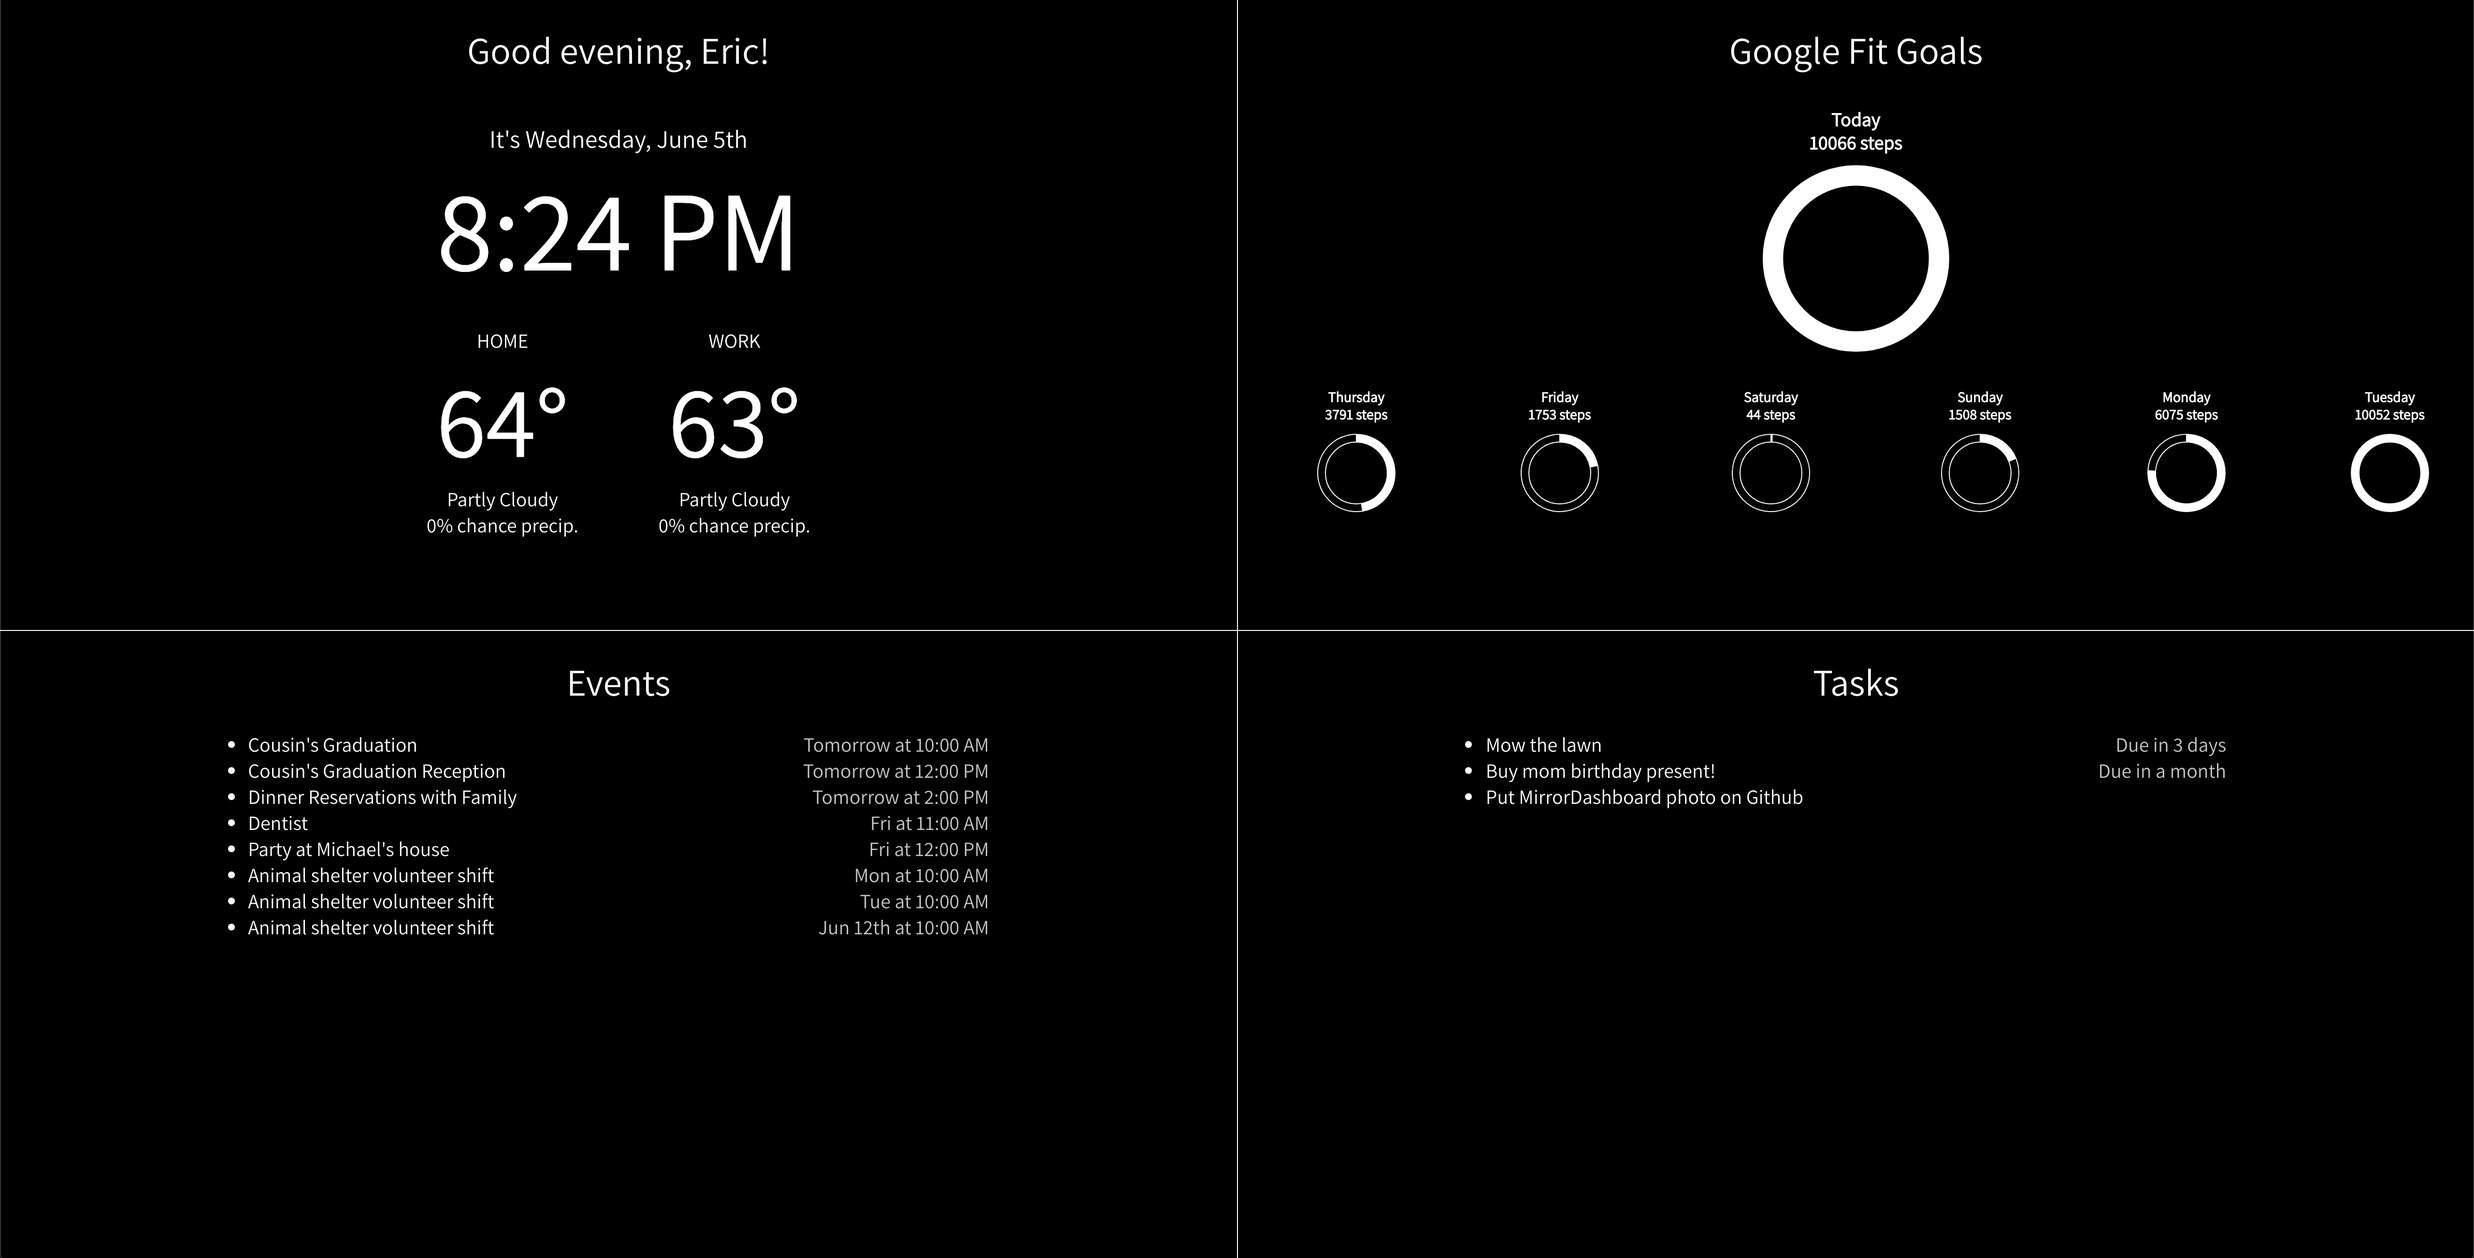
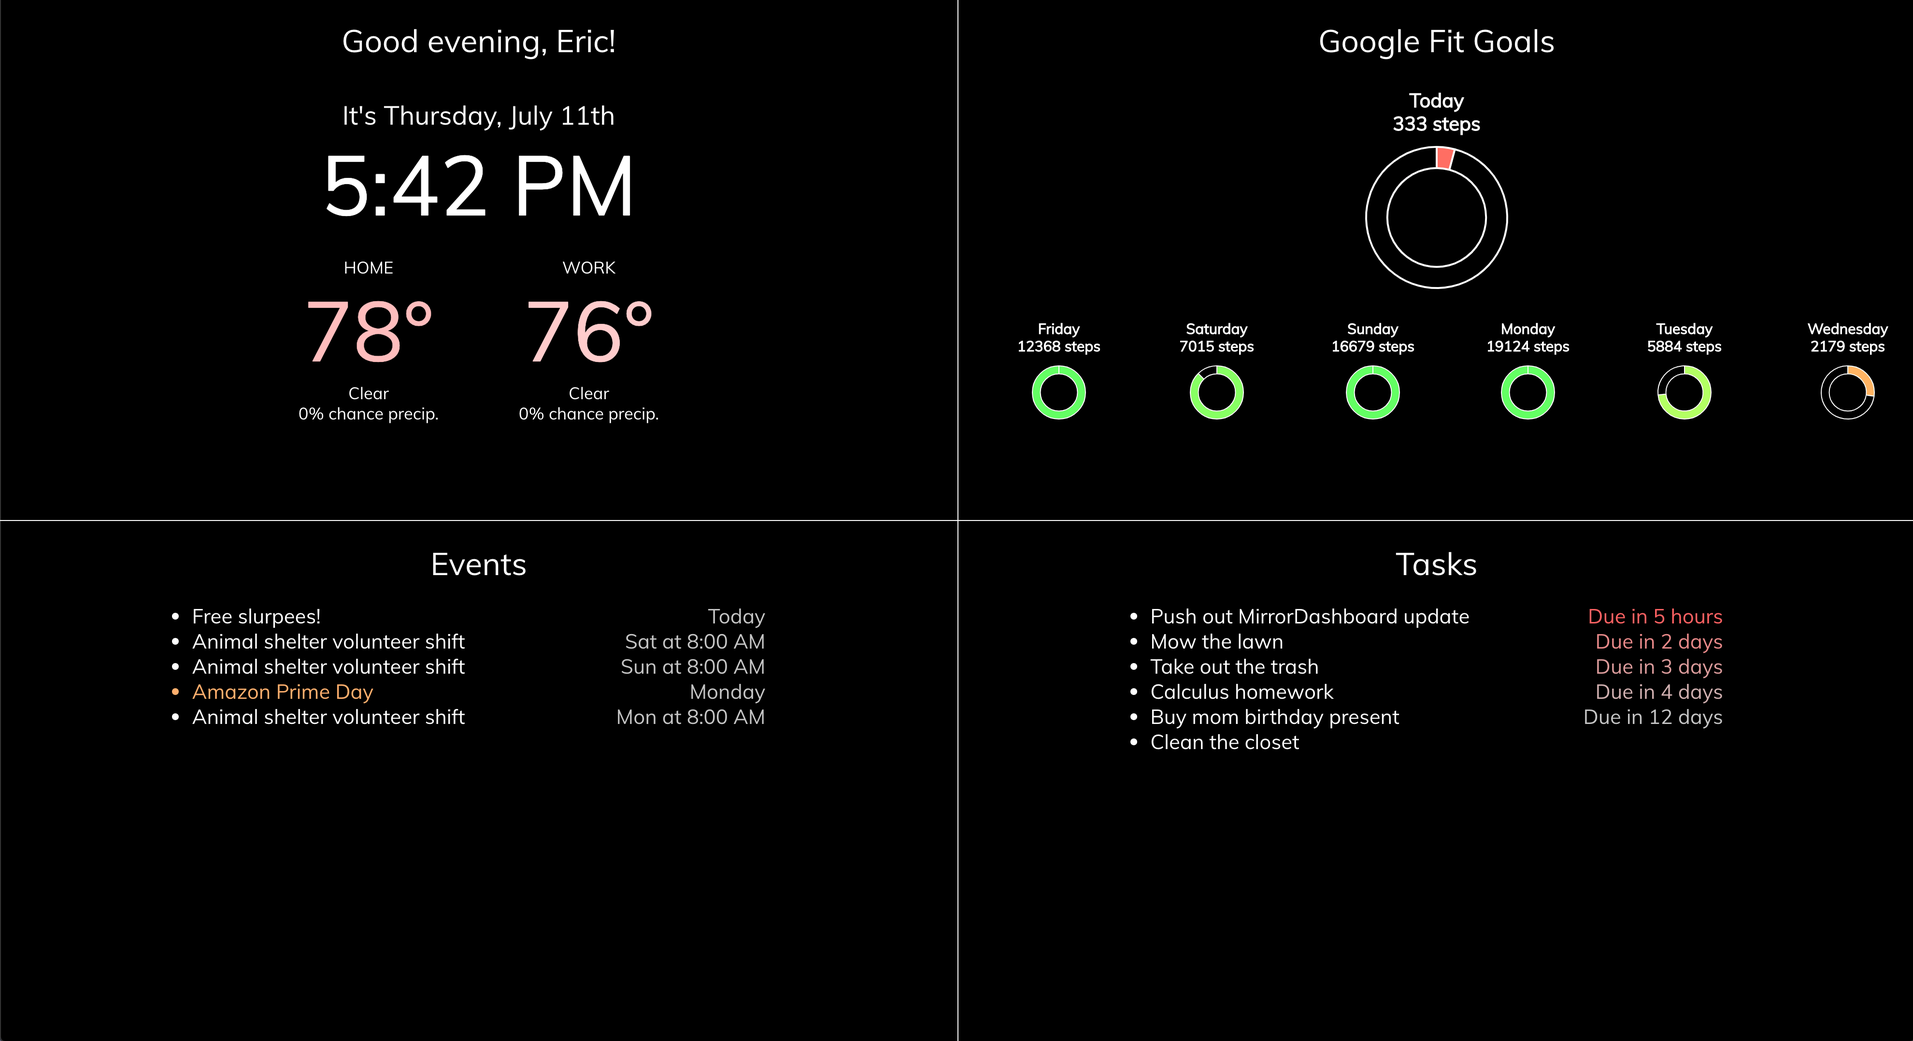
Add colors

diff --git a/src/Dashboard.js b/src/Dashboard.js
@@ -5,7 +5,11 @@ import React from "react";
 import { Doughnut } from 'react-chartjs-2';
 import DarkSkyApi from 'dark-sky-api';
 import moment from "moment";
-import {apiKey, clientId, calendars, calendarLookAhead, maxEntries, taskLists, secondaryLocation, homeLatitude, homeLongitude, workLatitude, workLongitude, darkSkyKey, googleFitActivity, googleFitActivityUnits, googleAuthScopes, fitGoal, refreshRates} from "./config";
+import interpolate from "color-interpolate";
+
+import {apiKey, clientId, calendars, calendarLookAhead, maxEntries, taskLists, secondaryLocation, homeLatitude, homeLongitude, workLatitude, workLongitude, darkSkyKey, googleFitActivity, googleFitActivityUnits, googleAuthScopes, fitGoal, refreshRates, tempLowerBound, tempUpperBound, anxietyLevel} from "./config";
+import {googleCalendarColors} from "./static";
+
 
 export default class Dashboard extends React.Component {
     constructor(props){
@@ -86,7 +90,6 @@ export default class Dashboard extends React.Component {
             latitude: homeLatitude,
             longitude: homeLongitude
         }).then((result) => {
-            result.precipProbability *= 100;
             this.setState({homeWeather: result});
         });
 
@@ -94,7 +97,6 @@ export default class Dashboard extends React.Component {
             latitude: workLatitude,
             longitude: workLongitude
         }).then((result) => {
-            result.precipProbability *= 100;
             this.setState({workWeather: result});
         });
     }
@@ -116,6 +118,7 @@ export default class Dashboard extends React.Component {
             const events = results.map((result) => {
                 return result.result.items.map((item) => {
                     return {
+                        color: item.colorId === undefined ? "default" : googleCalendarColors.event[item.colorId.toString()].background,
                         name: item.summary,
                         allDay: item.start.dateTime == null,
                         start: (item.start.dateTime == null) ? moment(item.start.date) : moment(item.start.dateTime),
@@ -168,12 +171,12 @@ export default class Dashboard extends React.Component {
             }).flat().sort((a, b) => {
                 if(a.duedate === null){
                     if(b.duedate === null){
-                        return a;
+                        return 0;
                     }
-                    return b;
+                    return 1;
                 }
                 if(b.duedate === null){
-                    return a;
+                    return -1;
                 }
                 return a.duedate.valueOf() - b.duedate.valueOf();
             });
@@ -198,7 +201,6 @@ export default class Dashboard extends React.Component {
                 "endTimeMillis": moment().hour(23).minute(59).second(59).millisecond(999).valueOf()
             }
         }).then((result) => {
-            console.log(result);
             let data = result.result.bucket.map((day) => {
                 if(day.dataset.length === 0){
                     return 0;
@@ -256,7 +258,6 @@ export default class Dashboard extends React.Component {
                 <h2 style={{textAlign: "center", fontSize: "20px"}}>Your calendar's clear for the next {maxEntries} days.</h2>
             );
         }else{
-            console.log(this.state.events);
             eventsHtml = this.state.events.slice(0, maxEntries - 1).map((event, i) => {
                 let date;
                 if(event.allDay){
@@ -276,7 +277,7 @@ export default class Dashboard extends React.Component {
                 }
 
                 return (
-                    <li className="entry" key={"event-" + event.id}>{event.name} <span className="dimmed right">{date}</span></li>
+                    <li className="entry" key={"event-" + event.id} style={{color: event.color}}>{event.name} <span className="dimmed right">{date}</span></li>
                 );
             });
             if(maxEntries < this.state.events.length){
@@ -297,8 +298,21 @@ export default class Dashboard extends React.Component {
             );
         }else{
             tasksHtml = this.state.tasks.slice(0, maxEntries - 1).map((task, i) => {
+
                 return (
-                    <li className="entry" key={"task-" + task.id} >{task.name} <span className="dimmed right">{task.duedate === null ? "" : ("Due " + task.duedate.fromNow().toString())}</span></li>
+                    <li className="entry" key={"task-" + task.id}>
+                        {task.name}
+                        <span
+                            className="right"
+                            style={{
+                                color: (task.duedate === null) ?
+                                    "cornflowerblue" :
+                                    interpolate(["#ff6e6e", "#cccccc"])(task.duedate.diff(moment(), "days") / anxietyLevel)
+                            }}
+                        >
+                            {task.duedate === null ? "" : ("Due " + task.duedate.fromNow().toString())}
+                        </span>
+                    </li>
                 );
             });
             if(maxEntries < this.state.tasks.length){
@@ -317,23 +331,63 @@ export default class Dashboard extends React.Component {
                                 <div className="sectionWrapper">
                                     <h1 className="sectionHeader" style={{textAlign: "center"}} onClick={this.handleSignOut}>Good {timeOfDay}, {this.state.user.getBasicProfile().getGivenName()}!</h1>
                                     <div style={{padding: "1.7vh", textAlign: "center"}}>
-                                        <h2 style={{fontSize: "2vh", margin: 0}}>It's {this.state.currentTime.format("dddd, MMMM Do")}</h2>
-                                        <h1 style={{fontSize: "9vh", margin: 0}}>{this.state.currentTime.format("h:mm A")}</h1>
+                                        <h2 style={{fontSize: "2.5vh", margin: 0}}>It's {this.state.currentTime.format("dddd, MMMM Do")}</h2>
+                                        <h1 style={{fontSize: "8vh", margin: 0}}>{this.state.currentTime.format("h:mm A")}</h1>
                                     </div>
                                     <table style={{position: "relative", left: 0, right: 0, margin: "auto", border: "none", textAlign: "center"}}>
                                         <tbody>
                                             <tr>
                                                 <td style={{border: "none", paddingRight: "40px"}}>
                                                     <h2 style={{fontSize: "1.6vh", margin: 0}}>HOME</h2>
-                                                    <h1 style={{fontSize: "8vh", margin: 0}}>{this.state.homeWeather === null ? "..." : (Math.round(this.state.homeWeather.temperature) + "°")}</h1>
+                                                    <h1
+                                                        style={{
+                                                            fontSize: "8vh",
+                                                            margin: 0,
+                                                            color: (
+                                                                this.state.homeWeather == null ?
+                                                                    "default" :
+                                                                    interpolate(
+                                                                        ["#6e6eff", "#ffffff", "#ff6e6e"]
+                                                                    )(
+                                                                        (this.state.homeWeather.temperature - tempLowerBound) / (tempUpperBound - tempLowerBound)
+                                                                    )
+                                                            )
+                                                        }}
+                                                    >
+                                                        {this.state.homeWeather === null ? "..." : (Math.round(this.state.homeWeather.temperature) + "°")}
+                                                    </h1>
                                                     <h2 style={{fontSize: "1.6vh", margin: 0}}>{this.state.homeWeather === null ? "Loading weather" : this.state.homeWeather.summary}</h2>
-                                                    <h2 style={{fontSize: "1.6vh", margin: 0}}>{this.state.homeWeather === null ? "Loading precipitation" : (this.state.homeWeather.precipProbability.toString() + "% chance precip.")}</h2>
+                                                    <h2 style={{
+                                                        fontSize: "1.6vh",
+                                                        margin: 0,
+                                                        color: (this.state.homeWeather === null) ? "#ffffff" : interpolate(["#ffffff", "#6e6eff"])(this.state.homeWeather.precipProbability)
+                                                    }}>{this.state.homeWeather === null ? "Loading precipitation" : ((this.state.homeWeather.precipProbability * 100).toString() + "% chance precip.")}</h2>
                                                 </td>
                                                 <td style={{border: "none", paddingLeft: "40px"}}>
                                                     <h2 style={{fontSize: "1.6vh", margin: 0}}>{secondaryLocation.toUpperCase()}</h2>
-                                                    <h1 style={{fontSize: "8vh", margin: 0}}>{this.state.workWeather === null ? "..." : (Math.round(this.state.workWeather.temperature) + "°")}</h1>
+                                                    <h1
+                                                        style={{
+                                                            fontSize: "8vh",
+                                                            margin: 0,
+                                                            color: (
+                                                                this.state.workWeather == null ?
+                                                                    "default" :
+                                                                    interpolate(
+                                                                        ["#6e6eff", "#ffffff", "#ff6e6e"]
+                                                                    )(
+                                                                        (this.state.workWeather.temperature - tempLowerBound) / (tempUpperBound - tempLowerBound)
+                                                                    )
+                                                            )
+                                                        }}
+                                                    >
+                                                        {this.state.workWeather === null ? "..." : (Math.round(this.state.workWeather.temperature) + "°")}
+                                                    </h1>
                                                     <h2 style={{fontSize: "1.6vh", margin: 0}}>{this.state.workWeather === null ? "Loading weather" : this.state.workWeather.summary}</h2>
-                                                    <h2 style={{fontSize: "1.6vh", margin: 0}}>{this.state.workWeather === null ? "Loading precipitation" : (this.state.workWeather.precipProbability.toString() + "% chance precip.")}</h2>
+                                                    <h2 style={{
+                                                        fontSize: "1.6vh",
+                                                        margin: 0,
+                                                        color: (this.state.workWeather === null) ? "#ffffff" : interpolate(["#ffffff", "#6e6eff"])(this.state.workWeather.precipProbability)
+                                                    }}>{this.state.workWeather === null ? "Loading precipitation" : ((this.state.workWeather.precipProbability * 100).toString() + "% chance precip.")}</h2>
                                                 </td>
                                             </tr>
                                         </tbody>
@@ -358,7 +412,7 @@ export default class Dashboard extends React.Component {
                                                                 this.state.fit[this.state.fit.length - 1] > fitGoal ? 0 : (fitGoal - this.state.fit[this.state.fit.length - 1])
                                                             ],
                                                             backgroundColor: [
-                                                                "white",
+                                                                interpolate(["#ff6e6e", "#ffff6e", "#6eff6e"])(this.state.fit[this.state.fit.length - 1] / fitGoal),
                                                                 "black"
                                                             ]  
                                                         }],
@@ -381,7 +435,7 @@ export default class Dashboard extends React.Component {
                                                             display: false
                                                         },
                                                         maintainAspectRatio: false,
-                                                        cutoutPercentage: 80
+                                                        cutoutPercentage: 70
                                                     }} />
                                                     <div style={{marginTop: "2%"}} />
                                                     <table style={{position: "relative", left: 0, right: 0, margin: "auto", border: "none", textAlign: "center", height: "55%"}}>
@@ -399,7 +453,7 @@ export default class Dashboard extends React.Component {
                                                                                             val > fitGoal ? 0 : (fitGoal - val)
                                                                                         ],
                                                                                         backgroundColor: [
-                                                                                            "white",
+                                                                                            interpolate(["#ff6e6e", "#ffff6e", "#6eff6e"])(val / fitGoal),
                                                                                             "black"
                                                                                         ]  
                                                                                     }],
@@ -422,7 +476,7 @@ export default class Dashboard extends React.Component {
                                                                                         display: false
                                                                                     },
                                                                                     maintainAspectRatio: false,
-                                                                                    cutoutPercentage: 80
+                                                                                    cutoutPercentage: 70
                                                                                 }} />
                                                                             </td>
                                                                         );

diff --git a/src/CONFIG_TEMPLATE.js b/src/CONFIG_TEMPLATE.js
@@ -13,10 +13,13 @@ export const clientId = "";
 
 export const darkSkyKey = "";
 
+export const tempLowerBound = 50;
+export const tempUpperBound = 90;
+
 export const secondaryLocation = "work";
 
-export const homeLatitude = 34.0672583;
-export const homeLongitude = -118.3443719;
+export const homeLatitude = 40.7678746;
+export const homeLongitude = -73.9836868;
 
 export const workLatitude = 38.8976763;
 export const workLongitude = -77.0387185;
@@ -32,6 +35,8 @@ export const maxEntries = 15;
 export const taskLists = [
     
 ];
+
+export const anxietyLevel = 5;
 
 export const googleFitActivity = "com.google.step_count.delta";
 

diff --git a/README.md b/README.md
@@ -3,11 +3,6 @@ A clean, simple UI for Magic Mirrors
 
 ![Demo Image](resources/screenshot_a.png)
 
------
-Developed by Eric
-
-View more of my projects at [yoonicode.com](http://yoonicode.com)
-
 ## Core Features
 The MirrorDashboard features 4 modules in each quadrant of the screen.
 
@@ -64,6 +59,8 @@ Now, we must add some parameters to the config file.
 | apiKey | The Google API key from before. | string 
 | clientId | The Google Client ID from before. Will probably look something like `<Random String>.apps.googleusercontent.com` | string 
 | darkSkyKey | The DarkSky Secret Key from before. | string 
+| tempLowerBound | For the color of the temperature indicator. What is a reasonable coldest (bluest) temperature in your location? | decimal number 
+| tempUpperBound | For the color of the temperature indicator. What is a reasonable hottest (reddest) temperature in your location? | decimal number 
 | secondaryLocation | Where do you commute to? Will usually be `work`, `school`, etc. (Will be `toUpperCase()`d) | string 
 | homeLatitude | The latitude coordinate of the Magic Mirror (used for weather). | decimal number 
 | homeLongitude | The longitude coordinate of the Magic Mirror (used for weather). | decimal number 
@@ -73,6 +70,7 @@ Now, we must add some parameters to the config file.
 | calendarLookAhead | How many days in advance an event should be shown. | integer
 | maxEntries | The maximum number of calendar events and tasks to display. | integer
 | taskLists | The IDs of the Google Tasks lists to show. Find IDs [here](https://developers.google.com/tasks/v1/reference/tasklists/list). | string[]
+| anxietyLevel | Tasks will gradually start turning red as they get closer to the due date. How many days out should they start turning red? | integer
 | googleFitActivity | A "data type for instantaneous reading", as described on the [Google Developers Website](https://developers.google.com/fit/android/data-types). | string
 | googleFitActivityUnits | The unit of the above data type, to be displayed on the mirror. | string
 | fitGoal | Your Google Fit goal, or how many (steps/calories/miles etc) it takes to fill up the donut charts. |
@@ -133,6 +131,8 @@ Finally, globally install the serve command:
     ./start.sh
 
 After you sign in with Google, you should be all set!
+
+**Tip** You can always sign out by clicking on your name in the upper left. 
 
 ## How To Contribute
 ### Code Edits
